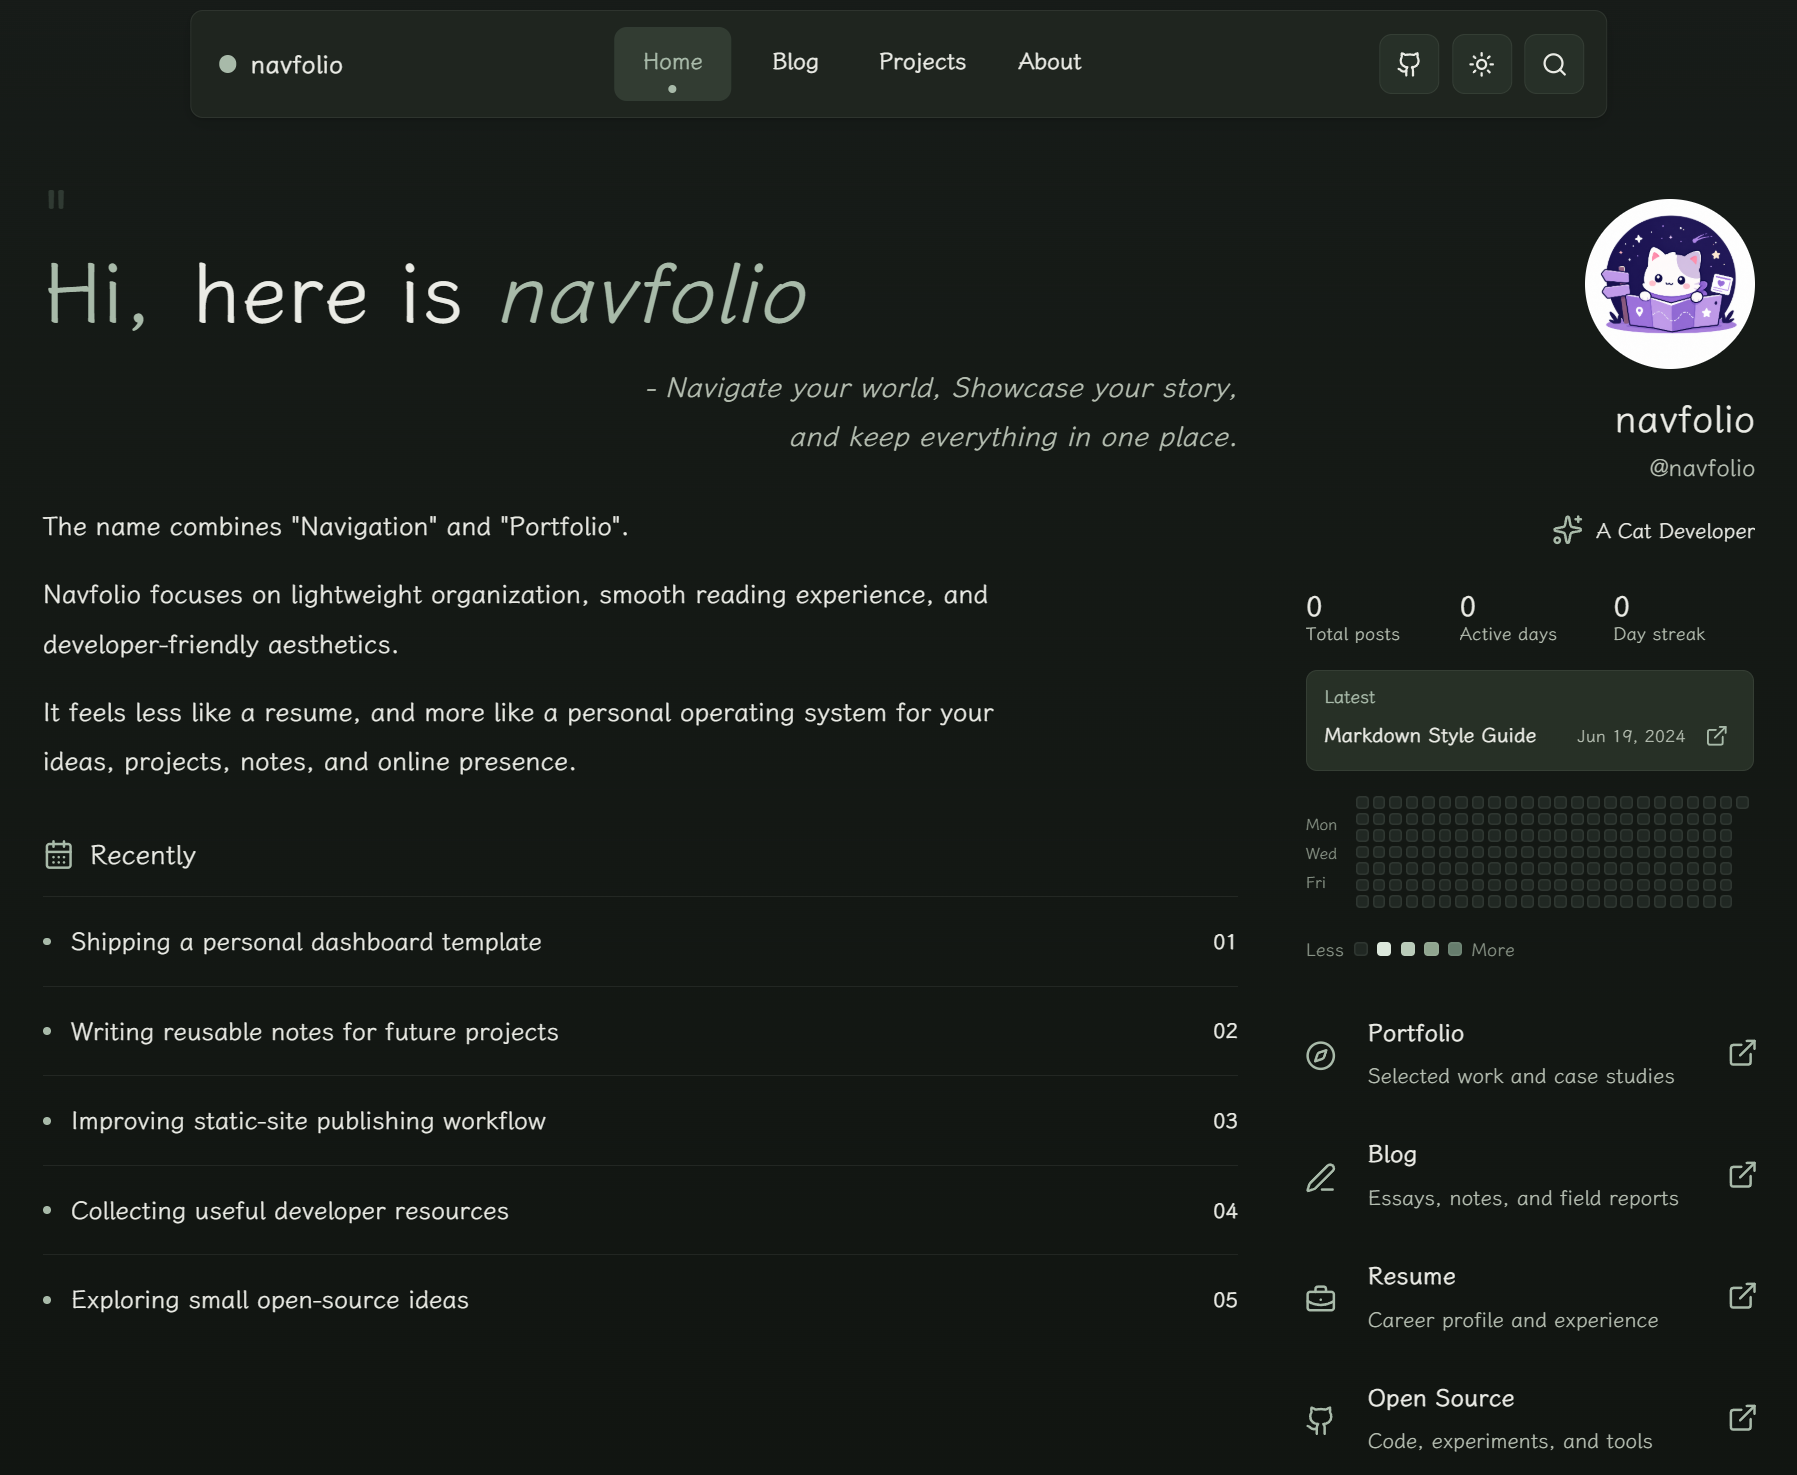
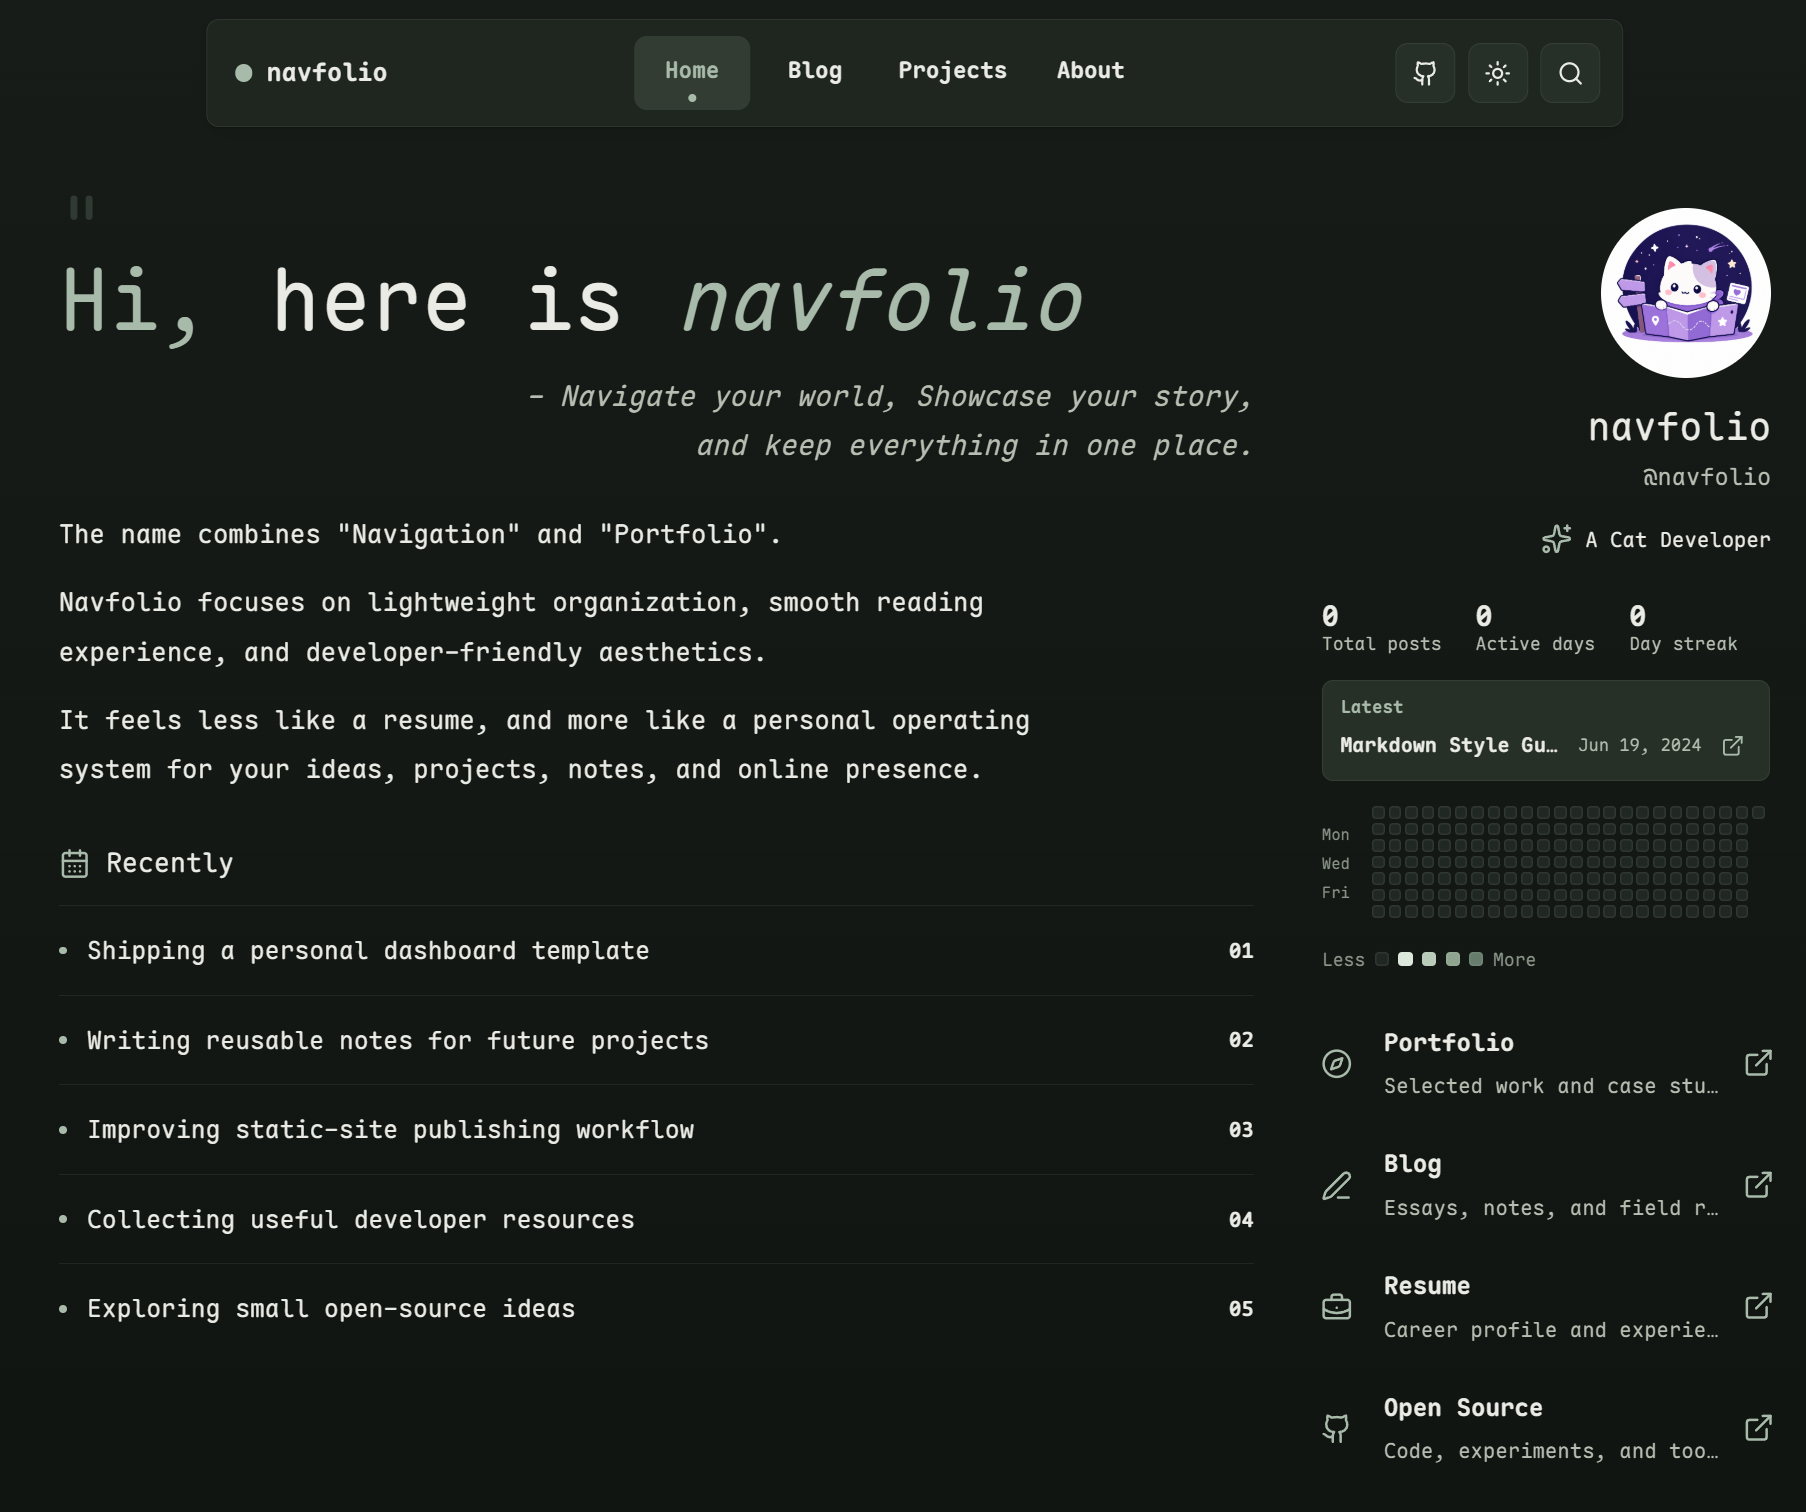
fixed font using

diff --git a/src/styles/global.css b/src/styles/global.css
@@ -48,7 +48,7 @@
   --layout-page-gutter: 32px;
   --layout-page-top: 126px;
   --layout-page-bottom: 72px;
-  --font-serif-cn: 'LXGW WenKai', 'STKaiti', 'KaiTi', serif;
+  --font-serif-cn: 'Maple Mono', 'LXGW WenKai', 'STKaiti', 'KaiTi', serif;
   --font-mono: 'Maple Mono', ui-monospace, SFMono-Regular, Menlo, Monaco, Consolas, monospace;
   --font-body: var(--font-serif-cn);
   --font-display: var(--font-serif-cn);
